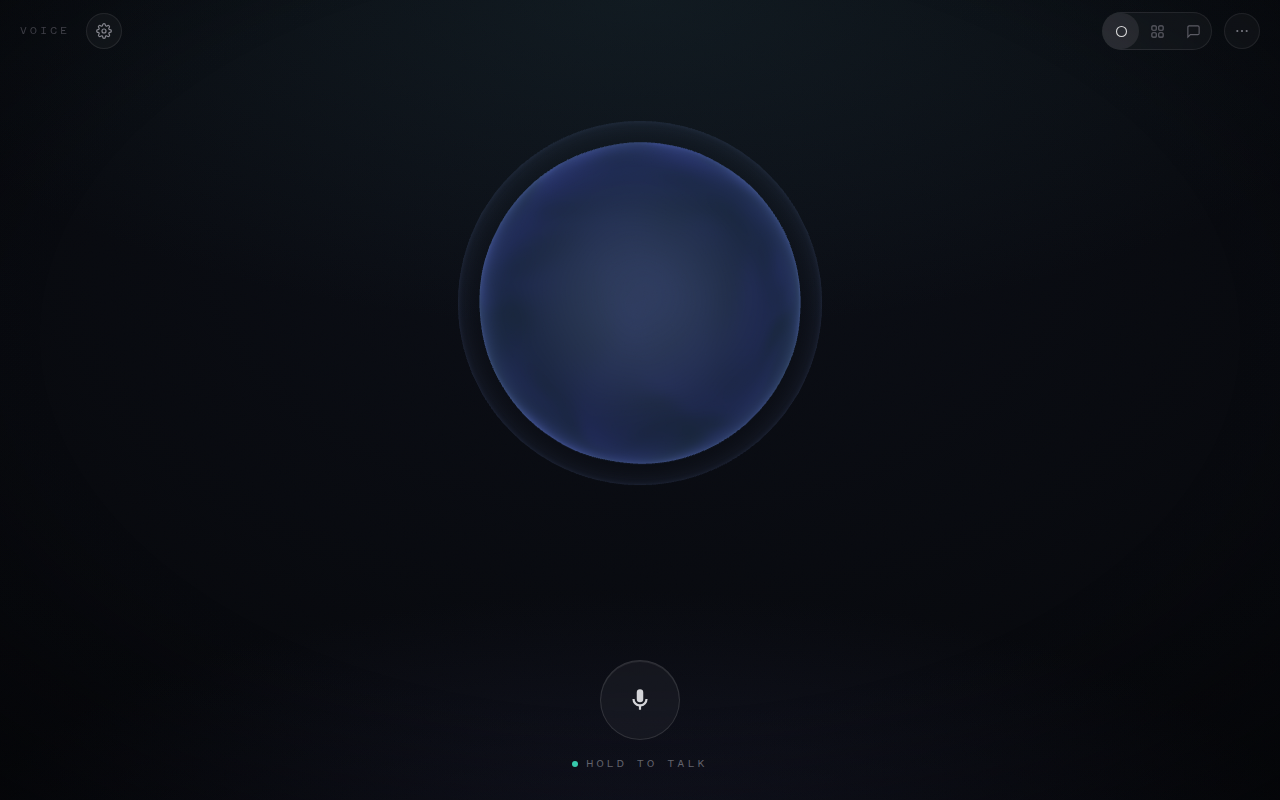
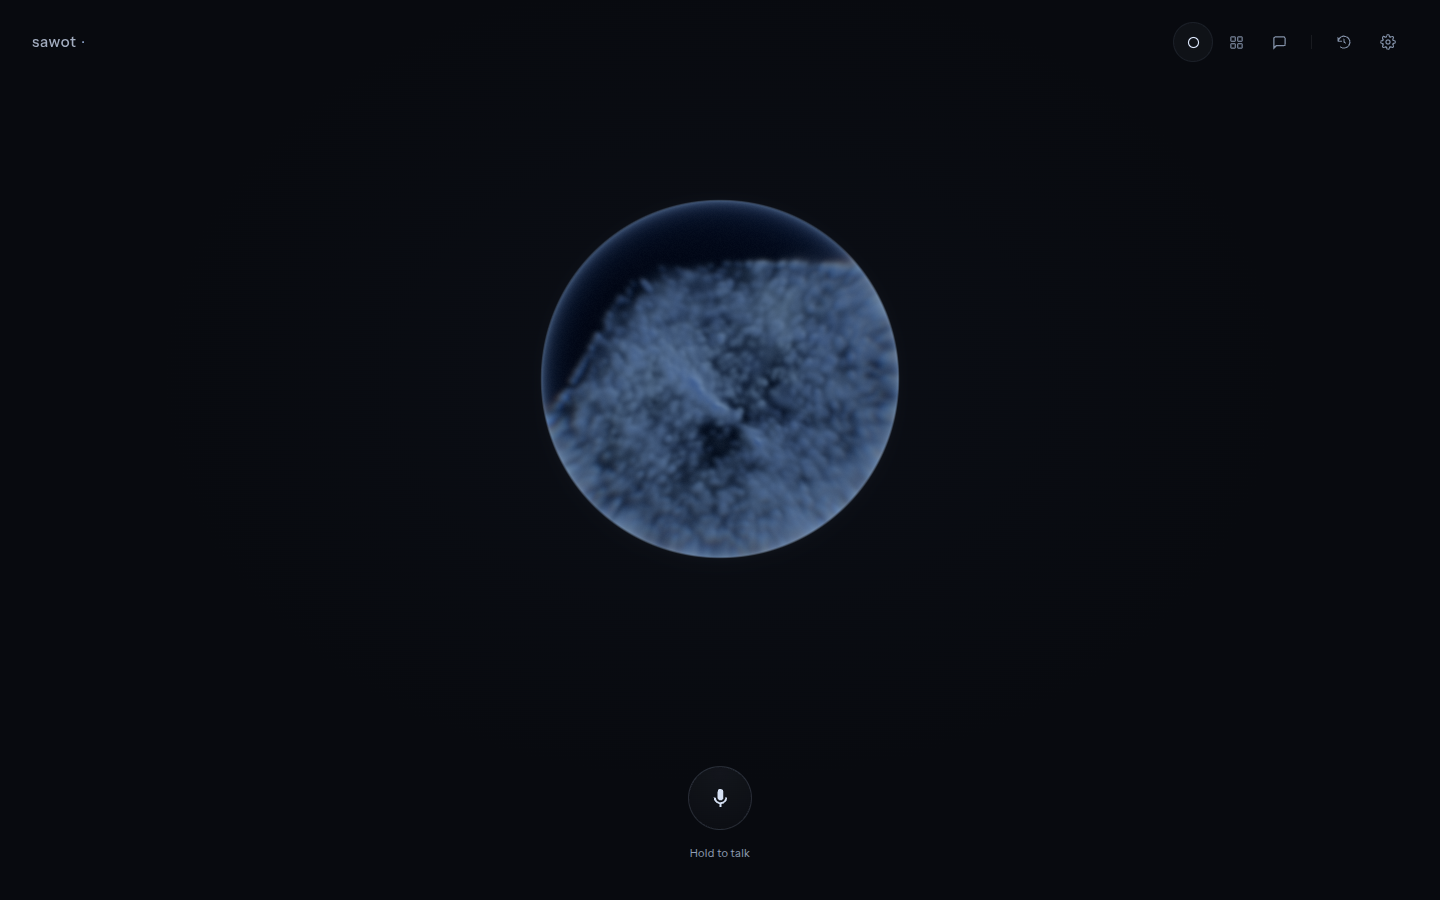
Refresh README and screenshots for the public release
- Describe the ink orb, expression catalogue, readouts, sketches and
  detailed drawings; the fuzzy cross-provider model picker; the debug bar
- Replace the pre-redesign screenshots (one showed a LAN IP and personal
  chat titles) with eight new captures taken against mocked API data
- Align pyproject.toml with requirements.txt (transcribe-cpp, no CUDA libs)
  and fix stale faster-whisper mentions in docstrings
- AGENTS.md: repo is public; drop the outdated "drawings not implemented" note

Claude-Session: https://claude.ai/code/session_01TWbJE9sNiDDUWMTiSNdg7z

diff --git a/server/openai_api.py b/server/openai_api.py
@@ -1,7 +1,7 @@
 """OpenAI-compatible audio endpoints over the local STT/TTS engines.
 
 Exposes POST /v1/audio/speech (Kokoro TTS) and POST /v1/audio/transcriptions
-(faster-whisper STT) plus GET /v1/models, so OpenAI SDK clients can point at
+(transcribe.cpp STT) plus GET /v1/models, so OpenAI SDK clients can point at
 SAWOT as a drop-in local speech backend.
 """
 

diff --git a/sidecar/app.py b/sidecar/app.py
@@ -2,7 +2,7 @@
 
 The TypeScript backend calls this small service for speech-to-text and
 text-to-speech. It isolates the only Python-native dependencies
-(faster-whisper, Kokoro) behind a tiny HTTP API on localhost.
+(transcribe.cpp, Kokoro) behind a tiny HTTP API on localhost.
 """
 
 from typing import Callable

diff --git a/README.md b/README.md
@@ -1,77 +1,114 @@
 # SAWOT
 
 Fully local voice and chat assistant for Home Assistant: push-to-talk in the
-browser, [faster-whisper](https://github.com/SYSTRAN/faster-whisper)
-speech-to-text, an LM Studio LLM with Home Assistant tool calling, and
+browser, CPU speech-to-text via
+[transcribe.cpp](https://github.com/handy-computer/transcribe.cpp), an LM
+Studio (or any OpenAI-compatible) LLM with Home Assistant tool calling, and
 [Kokoro](https://github.com/hexgrad/kokoro) text-to-speech — no cloud required.
+
+The assistant lives in a glass orb full of moving ink. The model chooses what
+the ink forms: a light bulb when it switches a lamp, a thermometer reading when
+you ask about the heating, a smile when it is pleased with itself.
 
 > **Security note:** this server has **no authentication** and can control
 > your devices over the network. Run it only on a trusted LAN, or bind
 > `server.host` to `127.0.0.1`. See [SECURITY.md](SECURITY.md).
 
+![Voice mode — the resting ink orb](screenshots/voice.png)
+
 ## Features
 
 - **Voice assistant** — hold the button, speak, release. Local STT → LLM →
   TTS pipeline with live per-turn latency traces.
+- **Expressive orb** — 6,144 persistent ink particles inside a lensed glass
+  sphere. The particles gather into a torus knot while the model thinks, ripple
+  with the reply as it is spoken, and form whatever the model chooses to show:
+  one of 28 catalogue shapes (faces, home symbols, statuses, weather), a short
+  text or number readout, or a free-hand sketch it draws itself. Shapes are
+  formed by moving the existing ink, never by swapping in an icon.
 - **Home Assistant control** — the model uses tools (`get_entities`,
-  `call_service`) to list and control your devices, then shows interactive
-  control cards for anything it touched.
-- **Advanced mode** — toggle lights and switches, set brightness and target
-  temperature directly from the cards.
+  `call_service`) to list and control your devices, then shows touch-first
+  control cards for anything it touched. Verified temperature readings from
+  your sensors and thermostats can be drawn as numeric ink.
+- **Devices view** — toggle lights and switches, drag brightness and colour
+  temperature bars, pick colours, and step thermostat targets directly from
+  the cards.
 - **Chat** — a ChatGPT-style interface with multiple server-stored
-  conversations, streaming replies, collapsible reasoning, and the same
-  Home Assistant tools.
+  conversations, streaming replies, collapsible reasoning, inline device
+  cards, and the same Home Assistant tools.
 - **Attachments** — upload images (vision models), text files, and PDFs
   (extracted text is sent inline to the model).
 - **Personality** — "Rita" ships with a sassy, teasing persona that you can
   switch off from Settings for a plain, friendly assistant.
-- **Live settings** — switch the LLM model and voice at runtime; choices
-  apply instantly and persist to `settings.json`.
+- **Custom providers** — add any OpenAI-compatible endpoint (OpenRouter,
+  Ollama, vLLM, OpenAI, …) with its API key from Settings. Every provider's
+  models appear in one searchable, fuzzy-filtered picker, each provider
+  loading on its own so a sleeping LM Studio never blocks the rest. Models
+  that only take tools through the Responses API (OpenAI's gpt-6 family) are
+  detected from the provider's first error and switched over automatically,
+  thinking included.
 - **Choice of speech engines** — Kokoro by default, or Resemble AI's
   Chatterbox Turbo and Nano (expressive, `[laugh]`-style tags, voice cloning
   from a short WAV). Download and switch from Settings.
-- **Custom providers** — add any OpenAI-compatible endpoint (OpenRouter,
-  Ollama, vLLM, OpenAI, …) with its API key from Settings; models from every
-  provider appear in the model pickers alongside LM Studio's.
-  Requests use chat completions; models that only take tools through the
-  Responses API (OpenAI's gpt-6 family) are detected from the provider's
-  first error and switched over automatically, thinking included.
+- **Live settings** — switch the model, voice, personality, and drawing detail
+  at runtime; choices apply instantly and persist to `settings.json`.
+- **Debug bar** — an optional diagnostics strip with a per-turn timeline
+  (STT, model, tools, TTS), every backend event, raw traffic in both
+  directions, and live state.
 - **OpenAI-compatible audio API** — `POST /v1/audio/speech` (TTS) and
   `POST /v1/audio/transcriptions` (STT) let any OpenAI SDK client use the
   local engines as a drop-in speech backend.
 
 ## Screenshots
 
-**Voice mode** — hold the button, speak, release:
+**The orb answers with ink** — a bulb after switching a light, and a
+thermometer reading on a phone:
 
-![Voice mode](screenshots/voice.png)
+![Bulb expression while speaking](screenshots/expression.png)
 
-**Chat mode** — text chat with tools and attachments:
+<img src="screenshots/readout-phone.png" alt="Temperature readout on a phone" width="390">
+
+**Devices** — control cards for everything the assistant touched:
+
+![Device cards](screenshots/devices.png)
+
+**Chat** — reasoning, streaming replies, and inline cards:
 
 ![Chat mode](screenshots/chat.png)
 
-**Settings** — model, voice, and personality:
+**Settings** — model picker across providers, voice, personality, drawing
+detail, and speech model downloads:
 
 ![Settings panel](screenshots/settings.png)
+
+<img src="screenshots/model-picker-phone.png" alt="Fuzzy model picker with one provider still loading" width="390">
+
+**Debug bar** — the turn timeline with the reply and its orb expression:
+
+![Debug bar](screenshots/debug.png)
 
 ## Architecture
 
 - `ts-backend/` — TypeScript (Fastify) backend: WebSocket voice pipeline, chat
-  (SSE), settings, Home Assistant client, and the LLM agent + tools. Proxies
-  STT/TTS to the Python sidecar.
-- `sidecar/` + `server/` — Python (FastAPI) inference sidecar: faster-whisper
-  STT, Kokoro TTS, and the model download manager.
-- `web/` — TypeScript (React + Vite) frontend, built into `web/dist/`.
+  (SSE), settings, provider registry, Home Assistant client, the LLM agent +
+  tools, and the orb expression catalogue. Proxies STT/TTS to the Python
+  sidecar.
+- `sidecar/` + `server/` — Python (FastAPI) inference sidecar: transcribe.cpp
+  STT, Kokoro / Chatterbox TTS, and the model download manager.
+- `web/` — TypeScript (React + Vite + Three.js) frontend, built into
+  `web/dist/`. The ink simulation, shape fields, stroke font, and shader live
+  under `web/src/lib/` and `web/src/shaders/`.
 - `config.yaml` + `.env` — runtime configuration and the HA token.
 
 ## Prerequisites
 
-- Linux (native or WSL2). Speech-to-text runs on CPU (ggml); text-to-speech
+- Linux (native or WSL2). Speech-to-text runs on CPU (GGUF); text-to-speech
   uses an NVIDIA GPU when present and falls back to CPU.
 - `sudo apt install espeak-ng ffmpeg`
 - Node.js 20+ and npm (TypeScript backend + frontend)
 - [LM Studio](https://lmstudio.ai/) running with a tool-calling model loaded
-  (recommended: Qwen3-8B Q4) and its local server enabled
+  (recommended: Qwen3-8B Q4) and its local server enabled — or any other
+  OpenAI-compatible provider added from Settings
 - A Home Assistant
   [long-lived access token](https://www.home-assistant.io/docs/authentication/#your-account-profile)
   (HA → Profile → Security → Long-lived access tokens)
@@ -114,6 +151,9 @@ Edit `config.yaml`:
 
 Put your Home Assistant token in `.env` as `HA_TOKEN=...`.
 
+Custom LLM providers and their API keys are added from Settings and stored in
+`settings.json` (gitignored). Keys are never returned by the API.
+
 ## Models
 
 Speech-to-text and text-to-speech models are downloaded on demand into a local
@@ -141,7 +181,6 @@ name. They need an optional package installed first, see
 `requirements-chatterbox.txt` for the exact commands, then download either
 model from Settings and click it to switch.
 
-
 ## Run
 
 ```bash
@@ -158,38 +197,72 @@ on your LAN (use `https://` when TLS is configured).
 
 ### Voice
 
-Hold the button, speak, release. With TLS configured (self-signed cert in
-`certs/`), use `https://` — required for phone microphone access (accept the
-certificate warning once per device).
+Hold the button, speak, release. Captions for what you said and what the
+assistant replied appear under the orb during a turn. With TLS configured
+(self-signed cert in `certs/`), use `https://` — required for phone microphone
+access (accept the certificate warning once per device).
 
-### Settings (gear, top-left)
+### How the orb draws
 
-Switch the LLM model (live list from LM Studio), the Kokoro voice, and the
-sassy personality — applied instantly and persisted.
+The model may start a spoken reply with a hidden marker, or call the
+`show_on_orb` tool, to pick what the ink forms:
 
-### Advanced mode (grid, top-right)
+- a **catalogue shape** such as `bulb`, `thermometer`, `lock`, `happy`, `rain`
+  (the full list with meanings is in `ts-backend/src/expressions.ts`);
+- a **readout** of up to twelve characters, on one or two lines;
+- a **sketch** of free polylines in a unit square. Turn on **Detailed
+  drawings** in Settings to let it use filled primitives (circles, ellipses,
+  rectangles, polygons, arcs) and more strokes.
 
-Replaces the orb with control cards for the devices each answer touched —
-toggle lights/switches, set brightness and target temperature.
+The backend validates and strips the markers, so nothing reaches speech,
+captions, or history. Device actions form their own symbols while a tool runs,
+and a verified temperature reading outranks everything else. Every final reply
+is appended to `data/orb-replies.log` with its parsed expression so a missing
+drawing can be diagnosed. Sketch quality depends on the model.
 
-### History & debug (dots, top-right)
+### Devices (grid icon)
 
-Conversation log; the **debug** toggle shows a per-turn pipeline trace
-(STT/LLM/tool/TTS timings and arguments).
+Control cards for the devices each answer touched — toggle lights and
+switches, drag brightness and warmth bars, pick colours, and step thermostat
+targets. Every target is at least 44 px for touch.
 
-### Chat (third position on the mode switch)
+### Chat (speech-bubble icon)
 
 Text chat with multiple server-stored conversations (`data/conversations/`),
 streaming replies with collapsible thinking, a per-conversation model picker,
 image/text/PDF uploads, the same Home Assistant tools, and inline device cards.
 
+### History (clock icon)
+
+The voice conversation log for this session, with a per-turn pipeline trace
+when the debug bar is on.
+
+### Settings (gear icon)
+
+Model (searchable across every provider), voice, sassy personality, detailed
+drawings, the debug bar, custom providers, and STT/TTS model downloads. Changes
+apply instantly and persist.
+
+### Debug bar
+
+Switch it on from Settings. Collapsed, it shows live tiles: status, last turn
+total, STT, model, and TTS latencies, tool call count, and server health.
+Expanded, it has four tabs — Timeline, Events, Messages, and State — a turn
+picker for the last twenty turns, and a Copy button that puts a turn's JSON on
+the clipboard. Chat mode emits the same events over its stream.
+
 ## Tests
 
 ```bash
-.venv/bin/pytest                     # Python sidecar (STT/TTS/models)
-(cd ts-backend && npm run typecheck) # TypeScript backend
-(cd web && npm run typecheck)        # frontend
+.venv/bin/pytest                                     # Python sidecar (STT/TTS/models)
+(cd ts-backend && npm run typecheck && npx tsx --test tests/*.test.ts)
+(cd web && npm run typecheck && npx vitest run)
 ```
+
+The TypeScript suites cover the provider registry and per-provider loading,
+the Responses API transport and reasoning fallback, expression parsing and the
+orb tool, temperature readings, the ink simulation, readout font, expression
+priority, fuzzy matching, and the debug store.
 
 ## Development
 
@@ -203,6 +276,13 @@ Backend dev: `cd ts-backend && npm run dev` (needs the sidecar running — see
   (`ts-backend/src/tools.ts`); Home Assistant tools are one provided set
   (`buildHaTools`). Add a `Tool` and pass it to `Agent` to teach the assistant
   new skills.
+- **Expressions** — add a name and meaning to the catalogue in
+  `ts-backend/src/expressions.ts` and a matching distance field in
+  `web/src/lib/inkShapes.ts`; the system prompt lists the catalogue
+  automatically.
+- **Providers** — `ts-backend/src/providers.ts` holds the registry; any
+  OpenAI-compatible endpoint works without code changes, and
+  `responsesTransport.ts` handles the Responses API for models that need it.
 - **Engines** — the Python sidecar exposes STT/TTS over HTTP
   (`server/stt.py`, `server/tts.py`); swap them for any backend without touching
   the TypeScript code.

diff --git a/AGENTS.md b/AGENTS.md
@@ -4,7 +4,7 @@
 
 SAWOT is a voice and chat assistant for Home Assistant. Preserve its minimal,
 orb-centered interface and fluid ink animation. The GitHub repository is
-`Edmasoud95/sawot`; keep its visibility private unless the user requests otherwise.
+`Edmasoud95/sawot` and is public.
 
 ## Architecture
 
@@ -18,9 +18,8 @@ orb-centered interface and fluid ink animation. The GitHub repository is
 - `screenshots/redesign/`: visual references and notes. Some screenshots represent
   earlier iterations; inspect current code and rendering before treating them as a specification.
 
-Read the affected code before changing it. Parts of README.md and pyproject.toml
-still refer to the earlier faster-whisper implementation; requirements.txt and
-server/stt.py reflect the current speech stack. Do not assume those manifests agree.
+Read the affected code before changing it. requirements.txt, pyproject.toml and
+server/stt.py all describe the current transcribe-cpp speech stack.
 
 ## Development and verification
 
@@ -74,8 +73,8 @@ For documentation-only edits, check accuracy and `git diff --check`; builds are 
   and momentum through transitions. Do not substitute a cutout mask or icon overlay.
 - `web/src/lib/inkSimulation.ts` transports particles; `inkReadout.ts` generates
   numeric stroke destinations; `shaders/orb.ts` renders the accumulated ink.
-- The renderer accepts particle destinations, but arbitrary LLM-generated drawings
-  are only a discussed idea, not an implemented feature.
+- The model chooses expressions through hidden markers or the `show_on_orb` tool:
+  catalogue shapes, readouts, and sketches (`ts-backend/src/expressions.ts`).
 - `orbExpression.ts` owns expression selection, priority, and expiry. Device shapes
   take priority over sentiment; validated temperature readouts take priority over both.
 - Hidden model markers must stay out of speech, captions, and conversational history.
